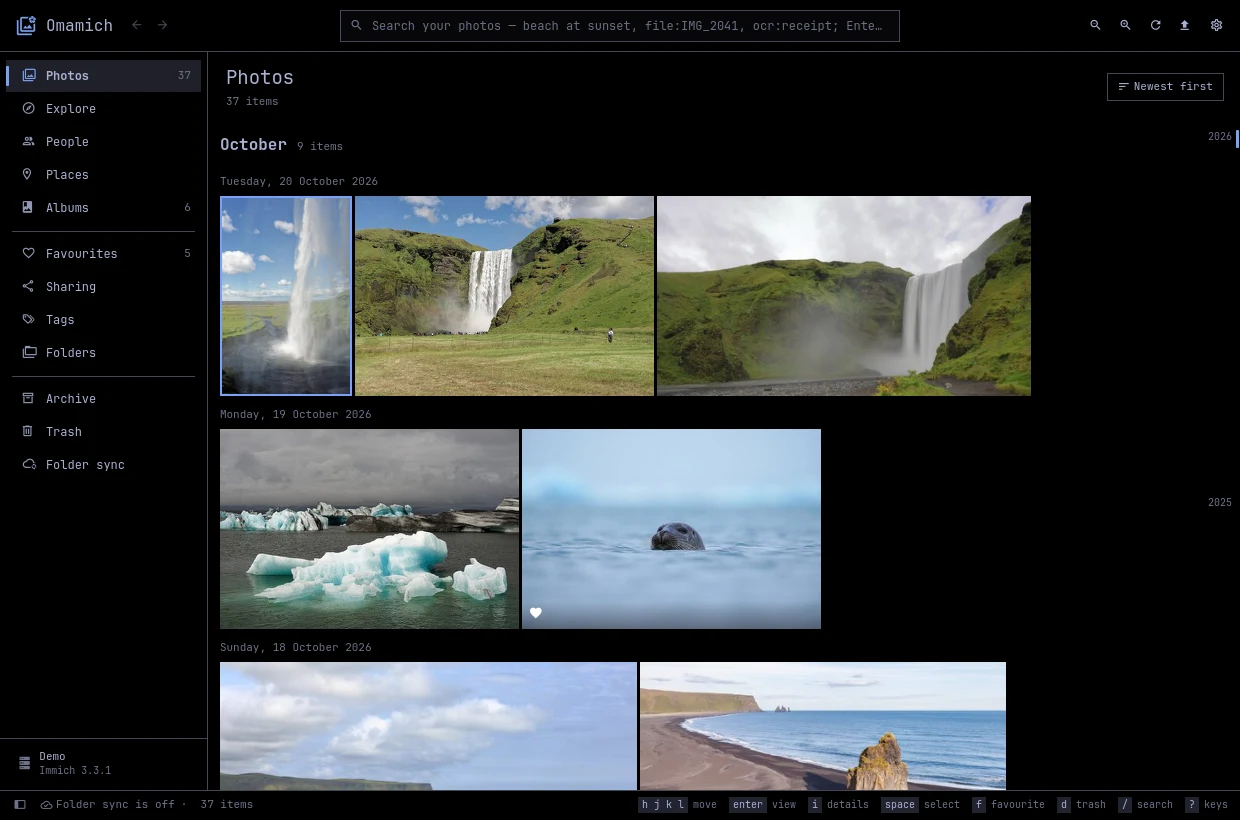
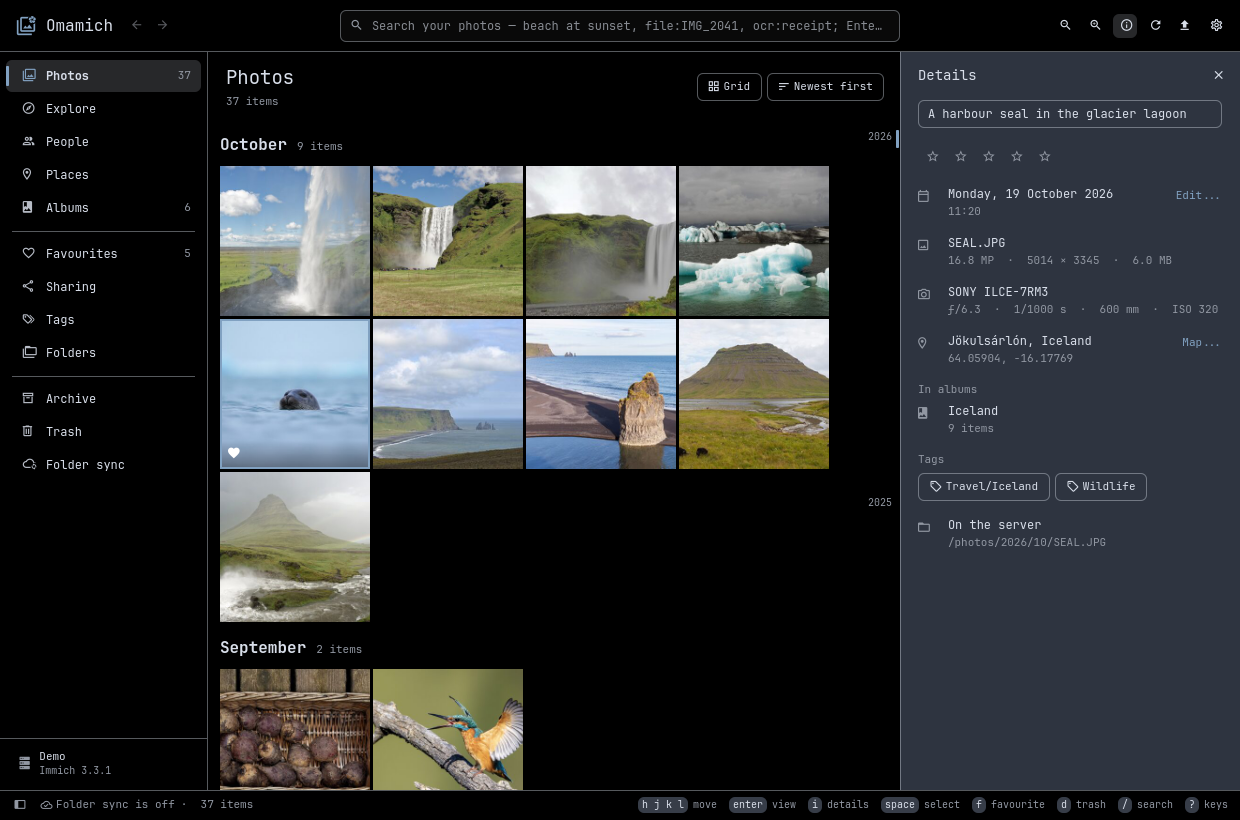
Show the plain grid with details in the marketplace preview
preview.png is now the Photos page as a square grid with the details panel
open beside it (the seal: camera, place, album, tags), the two features of
v0.1.6. The showcase script takes it as docs/images/grid.webp, which the
README shows beside Places.

diff --git a/tools/showcase/screenshots.py b/tools/showcase/screenshots.py
@@ -6,8 +6,8 @@ no real library is involved.
 
 usage: screenshots.py path/to/omamich SHOWCASE_DIR OUT_DIR
 
-Writes OUT_DIR/{photos,viewer,albums,places}.webp and copies the showcase
-CREDITS.md beside them.
+Writes OUT_DIR/{photos,grid,viewer,albums,places}.webp, OUT_DIR/preview.png
+(the grid, for the marketplace) and copies the showcase CREDITS.md beside them.
 """
 import os
 import shutil
@@ -41,8 +41,22 @@ def main():
             time.sleep(settle)  # thumbnails load and fade in
             png = h.shot(name)
             subprocess.run(["magick", png, "-quality", "88", os.path.join(out, name + ".webp")], check=True)
+            return png
 
         shot("photos")
+        h.js("app.setPhotoLayout('square')")
+        wait_for("the plain grid", lambda: h.value("app.activeGrid().layoutMode") == "square", 10)
+        # The seal, with its details beside the grid.
+        h.nav("right")
+        h.nav("right")
+        h.nav("right")
+        h.nav("right")
+        h.nav("info", 1)
+        wait_for("its details", lambda: h.value("hooks.info.details ? hooks.info.details.originalFileName : ''") == "SEAL.JPG", 10)
+        shutil.copy(shot("grid"), os.path.join(out, "preview.png"))
+        h.nav("info", 0.5)
+        h.nav("first")
+        h.js("app.setPhotoLayout('justified')")
         seal = asset_named(port, "SEAL.JPG")
         h.js(f"app.openViewer({{ id: '{seal}', isImage: true, ratio: 1.5, thumbhash: null, fileCreatedAt: '2026-10-19T11:20:00' }})")
         wait_for("the viewer", lambda: h.value("app.viewerAsset ? app.viewerAsset.id : ''") == seal, 10)

diff --git a/tools/showcase/fetch.py b/tools/showcase/fetch.py
@@ -101,7 +101,7 @@ def main():
     lines = ["# Showcase photos", "",
              "The showcase library's photos come from Wikimedia Commons' quality images. Each was resized to fit; "
              "the dates shown with them are made up, the places are the photos' own. "
-             "`preview.png`, the marketplace preview in the repository root, is the same screenshot as `docs/images/photos.webp`.", ""]
+             "`preview.png`, the marketplace preview in the repository root, is the same screenshot as `docs/images/grid.webp`.", ""]
     for photo, c in credits:
         licence = "[%s](%s)" % (c["licence"], c["licenceUrl"]) if c["licenceUrl"] else c["licence"]
         lines.append("- [%s](%s), by %s, %s" % (photo["file"], c["page"], c["author"] or "unknown", licence))

diff --git a/README.md b/README.md
@@ -7,7 +7,7 @@ Your [Immich](https://immich.app) photo library in a native Omarchy window, plus
 | | |
 |---|---|
 | ![A photo with its details: camera, place, album and tags](docs/images/viewer.webp) | ![Albums, each with its cover and dates](docs/images/albums.webp) |
-| ![Places, one cover per city](docs/images/places.webp) | |
+| ![Places, one cover per city](docs/images/places.webp) | ![The plain grid, with the selected photo's details beside it](docs/images/grid.webp) |
 
 <sub>The library in these screenshots is freely licensed photos from Wikimedia Commons, served by Omamich's test server; see [the photo credits](docs/images/CREDITS.md).</sub>
 
